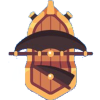
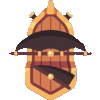
working on projection

diff --git a/src/main.ts b/src/main.ts
@@ -14,16 +14,18 @@ const widthM = 75;
 const heightM = 50;
 
 
-const shipPositions = [
+const ships = [
   {
     xM: widthM / 2,
     yM: heightM / 2,
-    rotation: 0.0,
+    rotationRad: 0.0,
+    scaleClip: 0.15,
   },
   {
-    xM: widthM / 4,
+    xM: 3 * widthM / 4,
     yM: heightM / 4,
-    rotation: Math.PI,
+    rotationRad: Math.PI / 4,
+    scaleClip: 0.1,
   },
 ];
 
@@ -33,7 +35,7 @@ const metaData = {
   deltaX: widthM / widthPx, // = width / nrPixelsWidth
   deltaY: heightM / heightPx, // = height / nrPixelsHeight
   deltaT: 0.05, // should not be much bigger than 0.01
-  shipCount: shipPositions.length
+  shipCount: ships.length
 };
 
 
@@ -60,10 +62,11 @@ const waterShader = device.createShaderModule({
             shipCount: f32  // only a float for consistency
         }
 
-        struct ShipPosition {
+        struct Ship {
             xM: f32,
             yM: f32,
-            rotation: f32
+            rotationRad: f32,
+            scaleClip: f32
         }
 
         struct VertexOutput {
@@ -91,7 +94,7 @@ const waterShader = device.createShaderModule({
         );
 
         @group(0) @binding(0) var<uniform> metaData: MetaData;
-        @group(0) @binding(1) var<storage, read> shipPositions: array<ShipPosition>;
+        @group(0) @binding(1) var<storage, read> shipPositions: array<Ship>;
         @group(0) @binding(2) var vhTexture: texture_2d<f32>;
 
         fn worldCoordsToUv(worldCoords: vec2f) -> vec2f {
@@ -195,12 +198,14 @@ const metaDataBuffer = device.createBuffer({
 device.queue.writeBuffer(metaDataBuffer, 0, metaDataArray, 0);
 
 const shipPosArray = new Float32Array([
-  shipPositions[0].xM,
-  shipPositions[0].yM,
-  shipPositions[0].rotation,
-  shipPositions[1].xM,
-  shipPositions[1].yM,
-  shipPositions[1].rotation,
+  ships[0].xM,
+  ships[0].yM,
+  ships[0].rotationRad,
+  ships[0].scaleClip,
+  ships[1].xM,
+  ships[1].yM,
+  ships[1].rotationRad,
+  ships[1].scaleClip
 ]);
 const shipPosBuffer = device.createBuffer({
   label: 'shipPositions',
@@ -297,10 +302,11 @@ const shipShader = device.createShaderModule({
             shipCount: f32  // only a float for consistency
         }
 
-        struct ShipPosition {
+        struct Ship {
             xM: f32,
             yM: f32,
-            rotation: f32
+            rotationRad: f32,
+            scaleClip: f32,
         }
 
         struct VertexOutput {
@@ -328,7 +334,7 @@ const shipShader = device.createShaderModule({
         );
 
         @group(0) @binding(0) var<uniform> metaData: MetaData;
-        @group(0) @binding(1) var<storage, read> shipPositions: array<ShipPosition>;
+        @group(0) @binding(1) var<storage, read> shipPositions: array<Ship>;
         @group(0) @binding(2) var vhTexture: texture_2d<f32>;
         @group(0) @binding(3) var shipTexture: texture_2d<f32>;
         @group(0) @binding(4) var shipHeightTexture: texture_2d<f32>;
@@ -353,27 +359,70 @@ const shipShader = device.createShaderModule({
             return textureLoad(texture, coords, 0);
         }
 
+        fn getRotationMatrix(radsAroundX: f32, radsAroundY: f32, radsAroundZ: f32) -> mat3x3<f32> {
+          let rx = mat3x3(
+            1, 0, 0,
+            0, cos(radsAroundX), -sin(radsAroundX),
+            0, sin(radsAroundX), cos(radsAroundX)
+          );
+          let ry = mat3x3(
+            cos(radsAroundY), 0, sin(radsAroundY),
+            0, 1, 0,
+            -sin(radsAroundY), 0, cos(radsAroundY)
+          );
+          let rz = mat3x3(
+            cos(radsAroundZ), - sin(radsAroundZ), 0,
+            sin(radsAroundZ), cos(radsAroundZ), 0,
+            0, 0, 1
+          );
+          return rx * ry * rz;
+        }
+
+        fn getShipH(shipPosWorldX: f32, shipPosWorldY: f32) -> f32 {
+          let shipPosUv = worldCoordsToUv(vec2f(shipPosWorldX, shipPosWorldY));
+          let h = myTextureSampler_f32(vhTexture, shipPosUv).y;
+          return h;
+        }
+
+        fn getShipPosRotation(shipPosWorldX: f32, shipPosWorldY: f32) -> vec2f {
+          let shipPosUv = worldCoordsToUv(vec2f(shipPosWorldX, shipPosWorldY));
+          let h = myTextureSampler_f32(vhTexture, shipPosUv).y;
+          let h_yp = myTextureSampler_f32(vhTexture, shipPosUv + vec2f(0, metaData.deltaY / metaData.heightM)).y;
+          let h_xp = myTextureSampler_f32(vhTexture, shipPosUv + vec2f(metaData.deltaX / metaData.heightM, 0)).y;
+          let rotationXRads = atan((h_yp - h) / metaData.deltaY);
+          let rotationYRads = atan((h_xp - h) / metaData.deltaX);
+          return vec2f(rotationXRads, rotationYRads);
+        }
+
         @vertex fn vertex(@builtin(vertex_index) vertexIndex: u32, @builtin(instance_index) instanceIndex: u32) -> VertexOutput {
             let triangleNr: u32 = vertexIndex / 3;
             let triangleOffset: u32 = vertexIndex % 3; 
             let pos = POSITIONS[triangleNr + triangleOffset];
             let uv = UVS[triangleNr + triangleOffset];
 
-            let shipPos = shipPositions[instanceIndex];
-            let transformMatrix = mat3x3<f32>(
-              cos(shipPos.rotation), sin(shipPos.rotation), shipPos.xM,
-              - sin(shipPos.rotation), cos(shipPos.rotation), shipPos.yM,
-              0, 0, 1
+            // ship world pos
+            let ship = shipPositions[instanceIndex];
+            let h = getShipH(ship.xM, ship.yM);
+            let shipWorldPos = vec3f(ship.xM, ship.yM, h);
+
+            // scale
+            let scaled = vec3f(pos * ship.scaleClip, 0.0);
+
+            // rotate
+            let rotationXY = getShipPosRotation(ship.xM, ship.yM);
+            let rotationZ = ship.rotationRad;
+            let rotationMatrix = getRotationMatrix(rotationXY.x, rotationXY.y, rotationZ);
+            let rotated = rotationMatrix * scaled;
+
+            // translate
+            let translated = vec3f(
+              rotated.x + 2.0 * ship.xM / metaData.widthM - 1.0,
+              rotated.y - 2.0 * ship.yM / metaData.heightM + 1.0,
+              h
             );
-            let worldToSceneMatrix = mat3x3<f32>(
-              50.0 * metaData.deltaX / metaData.widthM, 0, 0,
-              0, 50.0 * metaData.deltaY / metaData.heightM, 0,
-              0, 0, 1
-            );
-            let posProjected = worldToSceneMatrix * transformMatrix * vec3f(pos, 1);
 
             var o = VertexOutput();
-            o.pos = vec4f(posProjected.xy, 0, 1);
+            o.pos = vec4f(translated, 1);
             o.uv = uv;
             return o;
         }
@@ -385,13 +434,10 @@ const shipShader = device.createShaderModule({
             var fo = FragmentOutput();
             fo.diffuseColor = shipColor;
             fo.heightMap = waterHeight + shipHeight;
-            // fo.diffuseColor = vec4f(1, 0, 0, 1);
             return fo;
         }
-
   `
 });
-
 
 
 const shipImgResponse = await fetch('./ship.png');
@@ -480,7 +526,7 @@ let i = 0;
 function render() {
   i += 1;
 
-  shipPosArray[0] = 0.5 * widthM * Math.sin(i / 100) + widthM / 2;
+  shipPosArray[0] = 0.5 * widthM * Math.cos(i / 100) + widthM / 2;
   device.queue.writeBuffer(shipPosBuffer, 0, shipPosArray, 0);
 
   // water rendering
@@ -512,7 +558,7 @@ function render() {
   const encoder2 = device.createCommandEncoder();
   const pass2 = encoder2.beginRenderPass({
     colorAttachments: [{
-      loadOp: 'clear', 
+      loadOp: 'load', 
       storeOp: 'store', 
       view: context.getCurrentTexture().createView()
     }, {

diff --git a/WebGPU.md b/WebGPU.md
@@ -1,17 +1,20 @@
-# Storage buffers vs uniform buffers
+# WebGPU
+
+Some details I've learned
+
+## Storage buffers vs uniform buffers
 
 - uniform buffers are read only
 - uniform buffers must be fixed size, cannot be `array`
 - storage buffers can be much larger
 - uniform buffers are faster for ...
 
-# Instancing
+## Instancing
 
 - active by default
 - simply add `draw(<vertexCount>, <instanceCount>)`
--
 
-# Textures
+## Textures
 
 - Not all textures can be read by a sampler
   - A sampler really only serves to facilitate between pixel interpolation (with hardware acceleration)
@@ -20,4 +23,4 @@
 - Another issue is that webgpu doesn't know u8 datatypes
   - you can create a rgba8u texture ... but that will automatically get converted to a `texture_2d<u32>` texture.
   - Note that also rgba8u cannot be read with textureSample, only with textureLoad
-  - But webgpu tries to make every integer texture you load from a blob into an `rgba8unorm` anyway
+  - Note also that `copyExternalImageToTexture` expects the target to be `rgba8unorm` (emphasis on the _norm_) anyway ... which means that you actually do need a `texture_2d<f32>`
